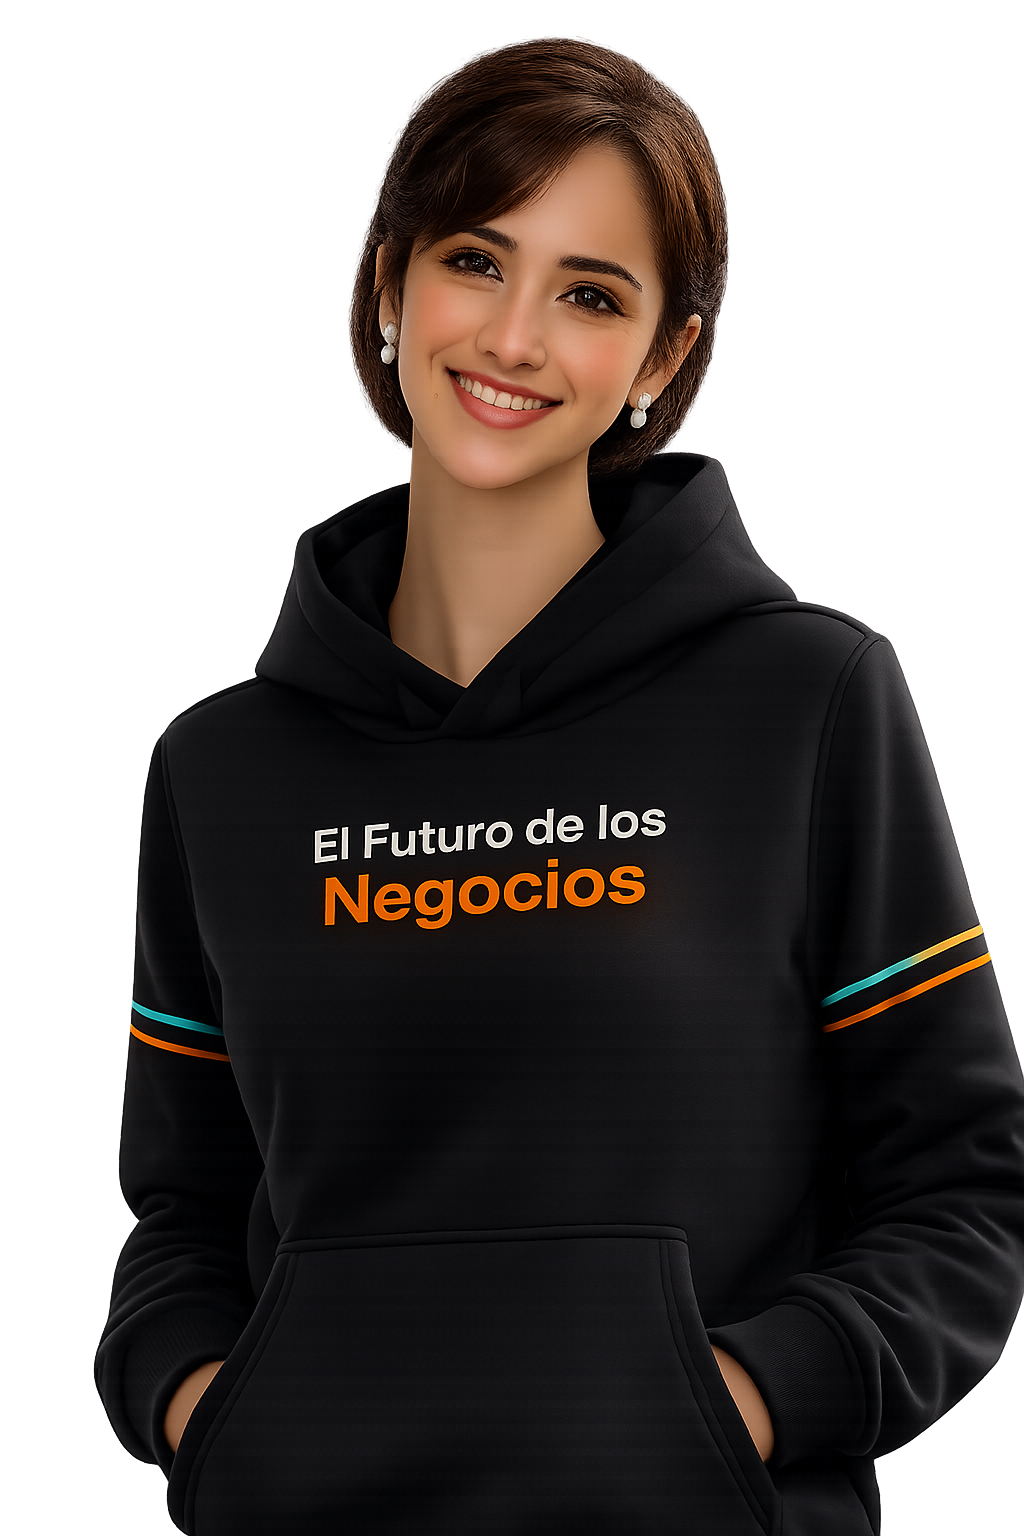
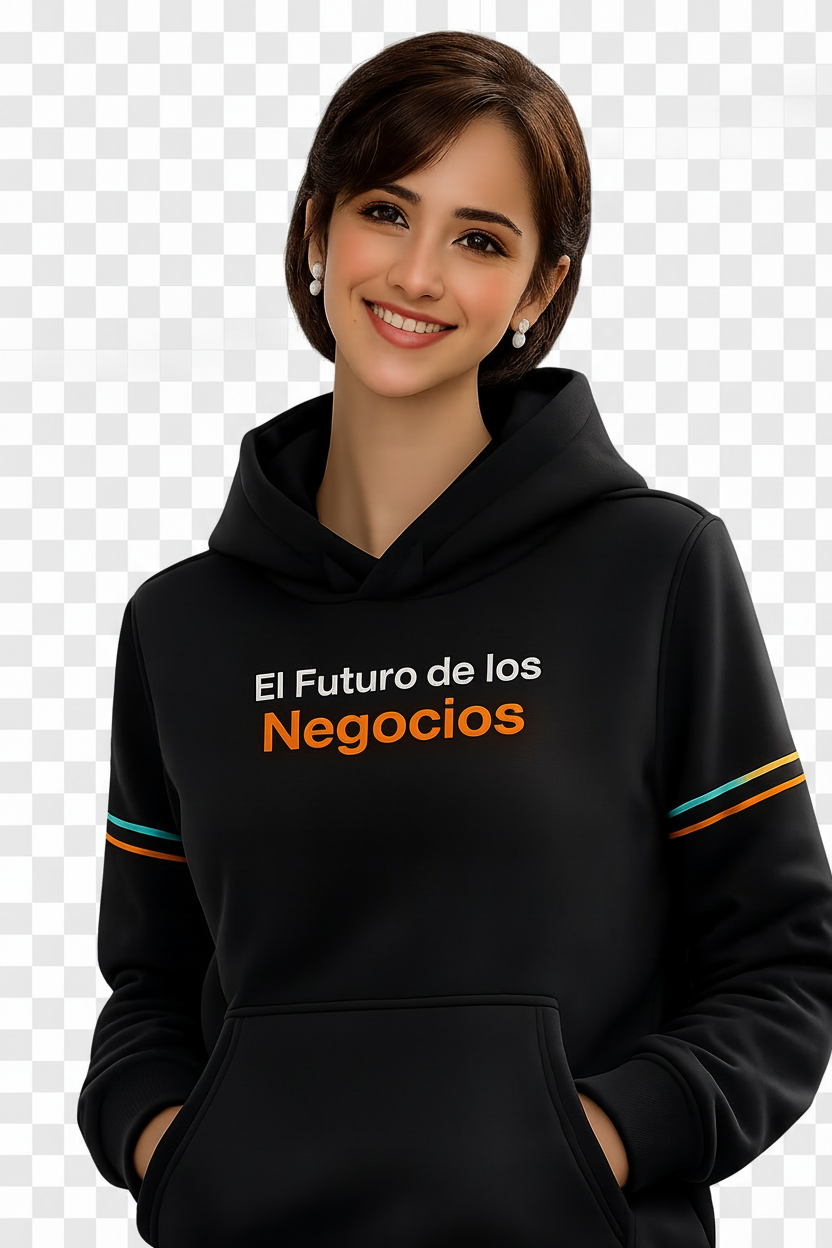
Changes

diff --git a/src/components/alicia-saas/AliciaHero.tsx b/src/components/alicia-saas/AliciaHero.tsx
@@ -12,6 +12,9 @@ const AliciaHero = () => {
             src={aliciaAvatar} 
             alt="ALICIA - Vendedora IA" 
             className="w-48 h-48 sm:w-60 sm:h-60 mx-auto object-contain alicia-breathing" 
+            style={{
+              filter: "drop-shadow(0 0 40px hsl(174 100% 29% / 0.5)) drop-shadow(0 0 80px hsl(25 100% 50% / 0.3))",
+            }}
           />
         </div>
 
